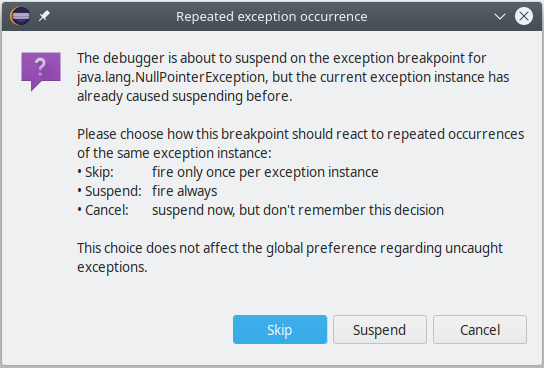
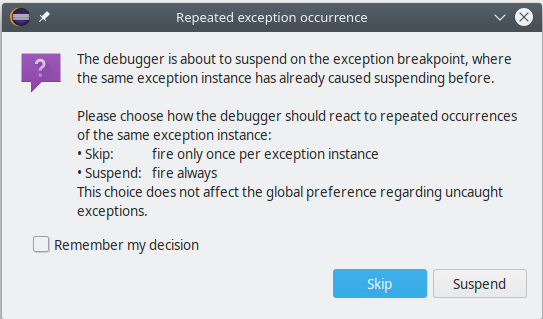
Bug 284158 - Dismiss exception breakpoint per instance

diff --git a/4.14/jdt.html b/4.14/jdt.html
@@ -203,8 +203,9 @@ the resources of the <code>try-with-resources</code> statement.  If there are se
   <tr id="exception-instance-recurrence"> <!-- https://bugs.eclipse.org/bugs/show_bug.cgi?id=284158 -->
     <td class="title">No suspending on exception recurrence</td>
     <td class="content">
-      A new option has been added for exception breakpoints: <b>Suspend on recurrence per instance</b> controls 
+      A new workspace preference has been added for exception breakpoints: <b>Suspend policy for recurring exception instances</b> controls 
       whether the same exception <em>instance</em> may cause the debugger to suspend more than once.
+      <p><img src="images/preference-exception-recurrence.png" alt="Preferences: Java > Debug"/></p>
       <p>This option is relevant when debugging an application that has <code>try</code> blocks at several levels of the architecture.
         In this situation an exception breakpoint may fire multiple times for the same actual exception <em>instance</em>: 
         A <code>throw</code> statement inside a <code>catch</code> block may re-throw the same exception.
@@ -219,14 +220,13 @@ the resources of the <code>try-with-resources</code> statement.  If there are se
       	recurring at the surface, a new question dialog is shown:
       </p>
       <p><img src="images/dialog-exception-recurrence.png" alt="Dialog: Repeated exception occurrence"/></p>
-      <p>If you select <b>Skip</b> in this dialog, the given exception breakpoint will be configured
-      	to never suspend on any exception instance that you have already dismissed by pressing <b>Resume</b>.
+      <p>If you select <b>Skip</b> in this dialog, the current exception instance will be dismissed for good.
       	Still, new instances of the same exception type will cause suspending when they are thrown.
       </p>
-      <p>Your choice will be stored in the breakpoint, and can be directly modified also in the breakpoint editor:
+      <p>If you check <b>Remember my decision</b> your choice will be stored in the mentioned workspace preference
+      	to be effective for all exception breakpoints.
       </p>
-      <p><img src="images/option-exception-recurrence.png" alt="Option: Suspend on recurrence per instance"/></p>
-      <p>Even after choosing <b>Skip</b>, resp. <b>only once</b>, you can have the old behavior
+      <p>Even after choosing <b>Skip</b> &mdash; resp. <b>Only once</b> in the preferences &mdash; you can have the old behavior
       	simply by pressing <b>Step Return</b> (<b>F7</b>) instead of <b>Resume</b>.</p>
     </td>
   </tr>
